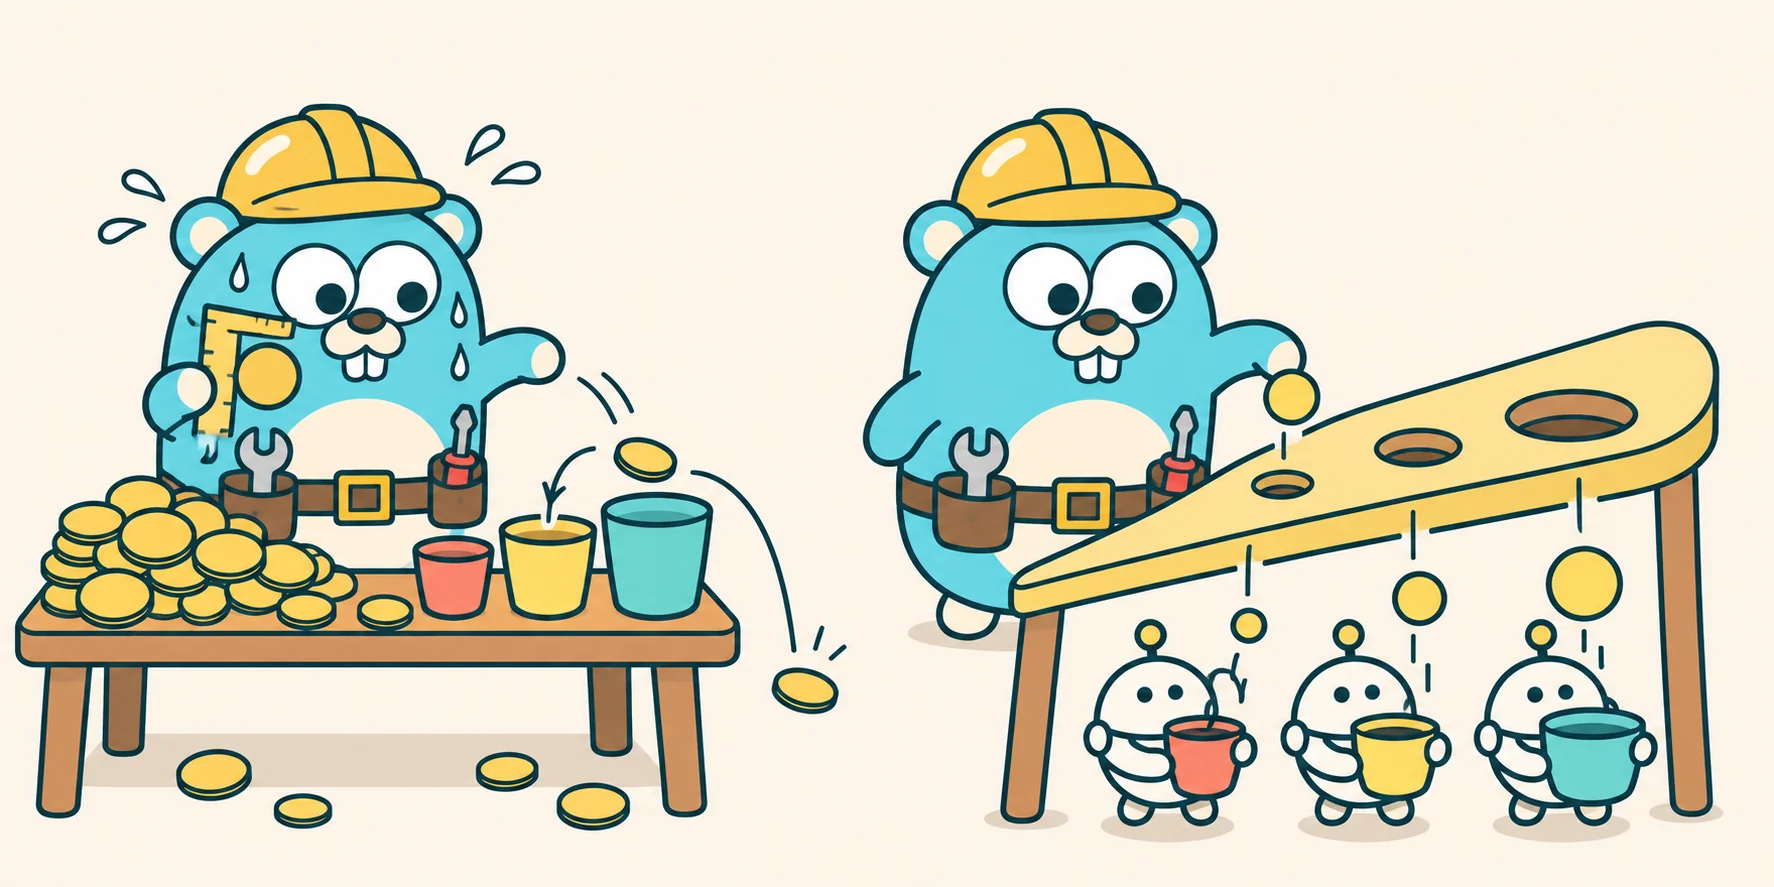
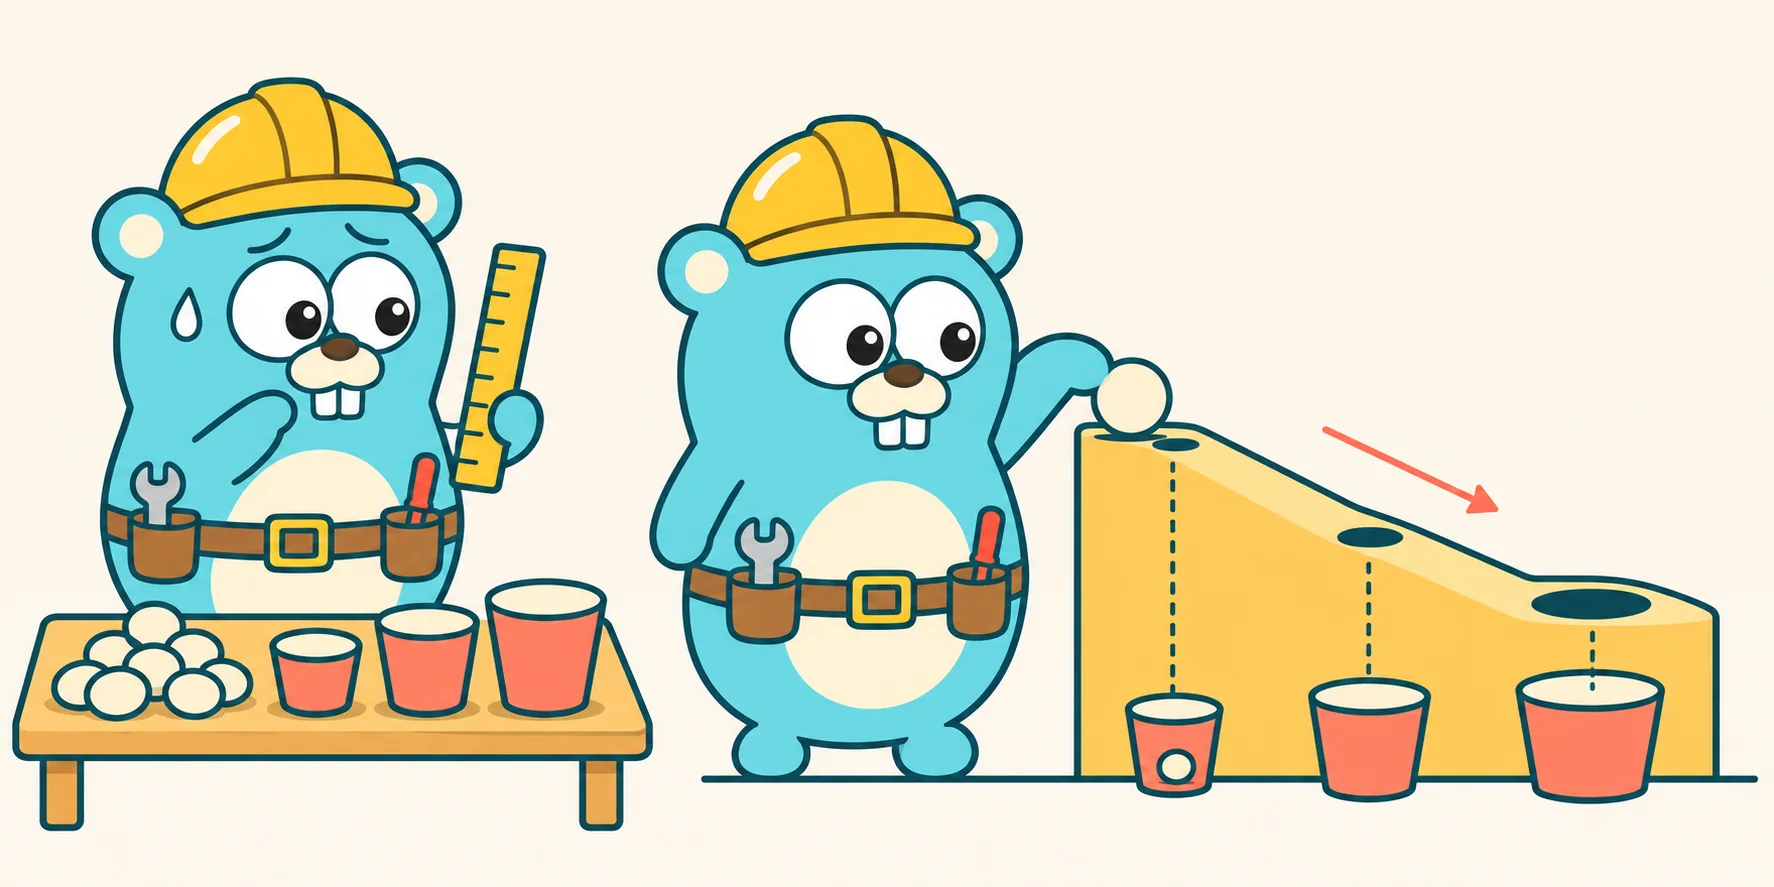
fix: 修正责任链分币滑道方向

diff --git a/docs/behavioral/chain-of-responsibility/problem.md b/docs/behavioral/chain-of-responsibility/problem.md
@@ -4,9 +4,9 @@
 
 报销单按金额分级审批：1000 元以内组长批，5000 以内经理批，50000 以内总监批。
 
-![左：吉祥物坐在一桌混在一起的硬币前满头大汗，拿尺子逐个量，再扔进三个杯子，有的掉在地上；右：吉祥物把硬币投进分币滑道，每枚硬币自己掉进对应的孔，落入机器人端着的杯子](../../assets/images/chain-of-responsibility-problem.webp){ .illus }
+![左：吉祥物用尺子逐枚量硬币；右：分币滑道从左上向右下倾斜，三个孔沿下坡方向依次变大](../../assets/images/chain-of-responsibility-problem.webp){ .illus }
 
-<p class="caption">每枚都要自己量、自己判断扔哪；交给滑道，硬币自己找到装得下它的孔</p>
+<p class="caption">从高处放入硬币，沿小孔、中孔、大孔的顺序往下滚，落进第一个能通过的孔</p>
 
 最直觉的写法：一个函数从小到大挨个判断：
 

diff --git a/docs/behavioral/chain-of-responsibility/implementation.md b/docs/behavioral/chain-of-responsibility/implementation.md
@@ -20,9 +20,9 @@
 --8<-- "codes/behavioral/chain/chain.go:chain"
 ```
 
-![三步：吉祥物举起一段只有一个孔的滑道；吉祥物把三段孔从小到大的滑道首尾拼接，每个孔下站着端杯子的机器人；一枚硬币滚过小孔、掉进中孔下机器人的杯子，机器人欢呼，吉祥物竖起大拇指](../../assets/images/chain-of-responsibility-steps.webp){ .illus }
+![三步：举起单段滑道；从高到低拼接小孔、中孔、大孔；中号硬币越过小孔，落进中孔](../../assets/images/chain-of-responsibility-steps.webp){ .illus }
 
-<p class="caption">每段滑道只管一个孔；首尾拼起来；硬币自己滚到装得下它的那一格</p>
+<p class="caption">从高到低按孔径由小到大拼接；中号硬币越过小孔，在中孔停下</p>
 
 !!! tip "改规则只改串链的地方"
 
